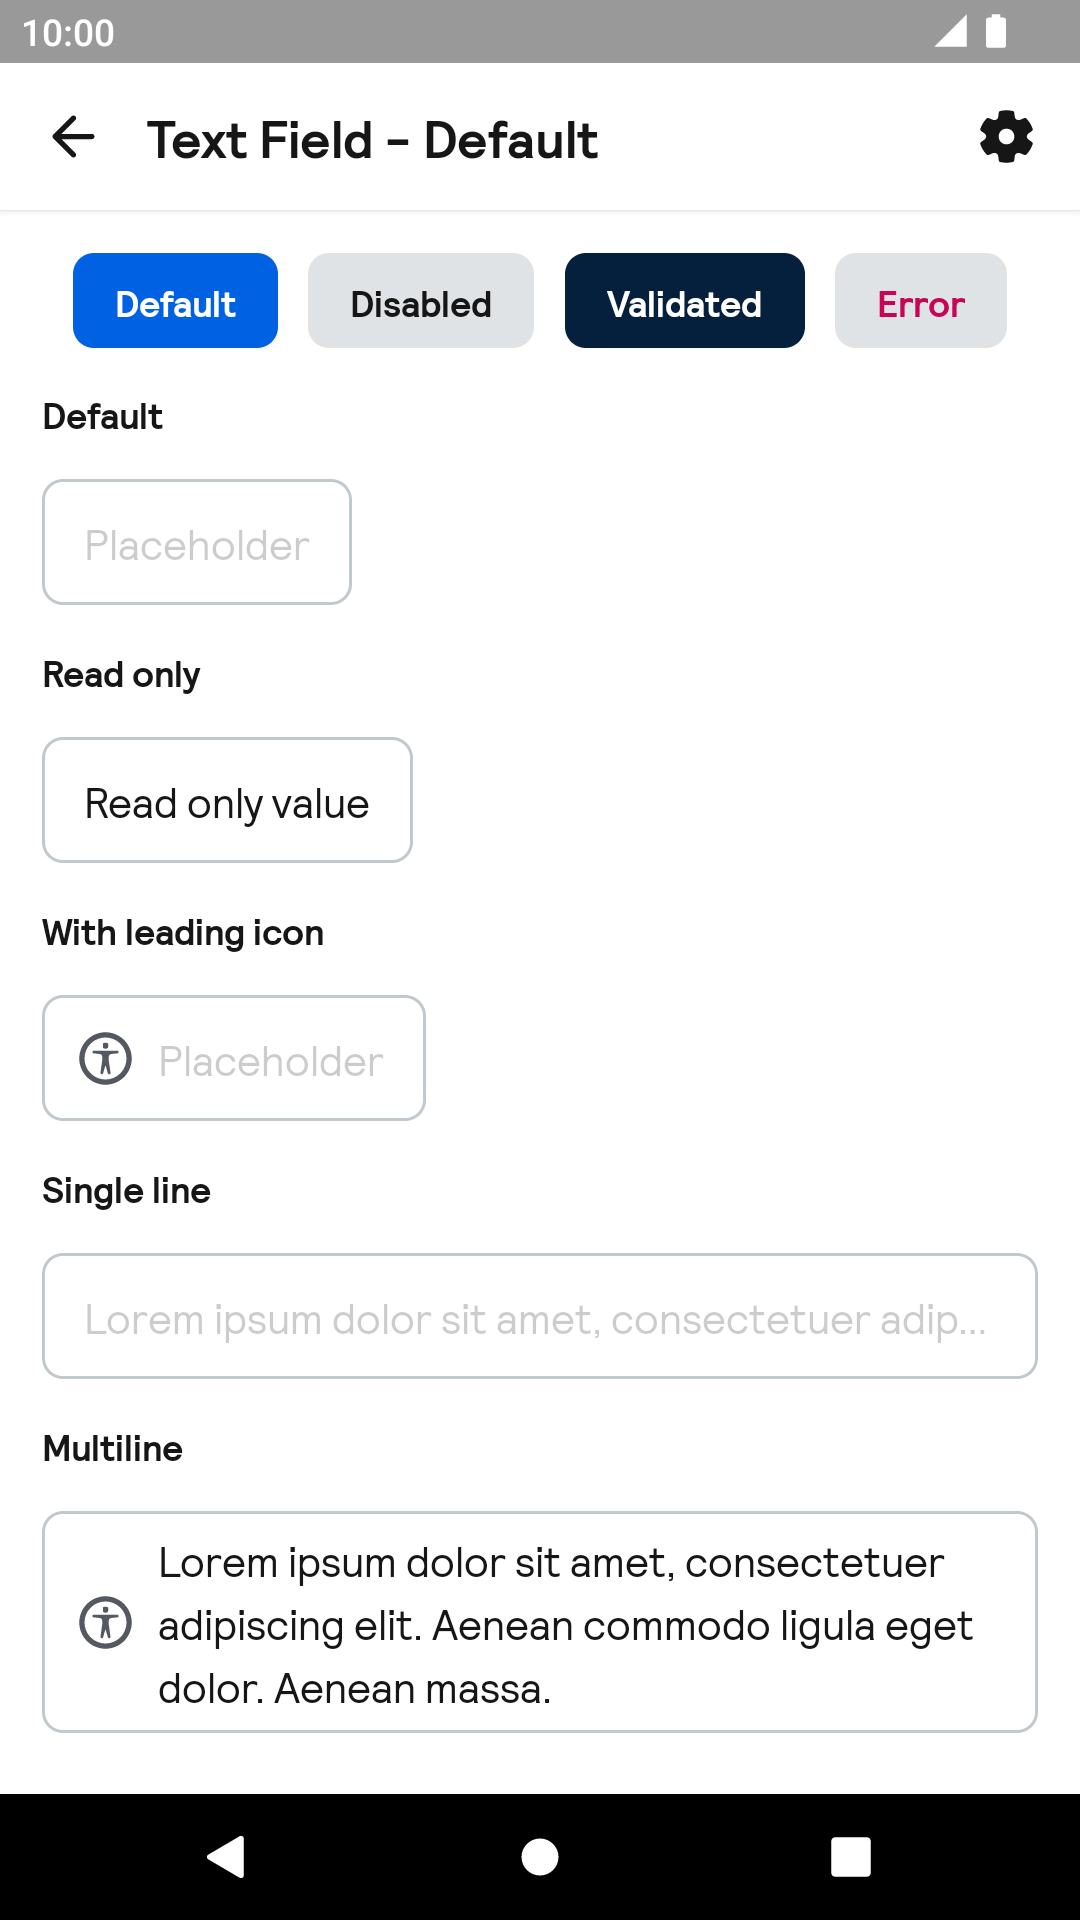
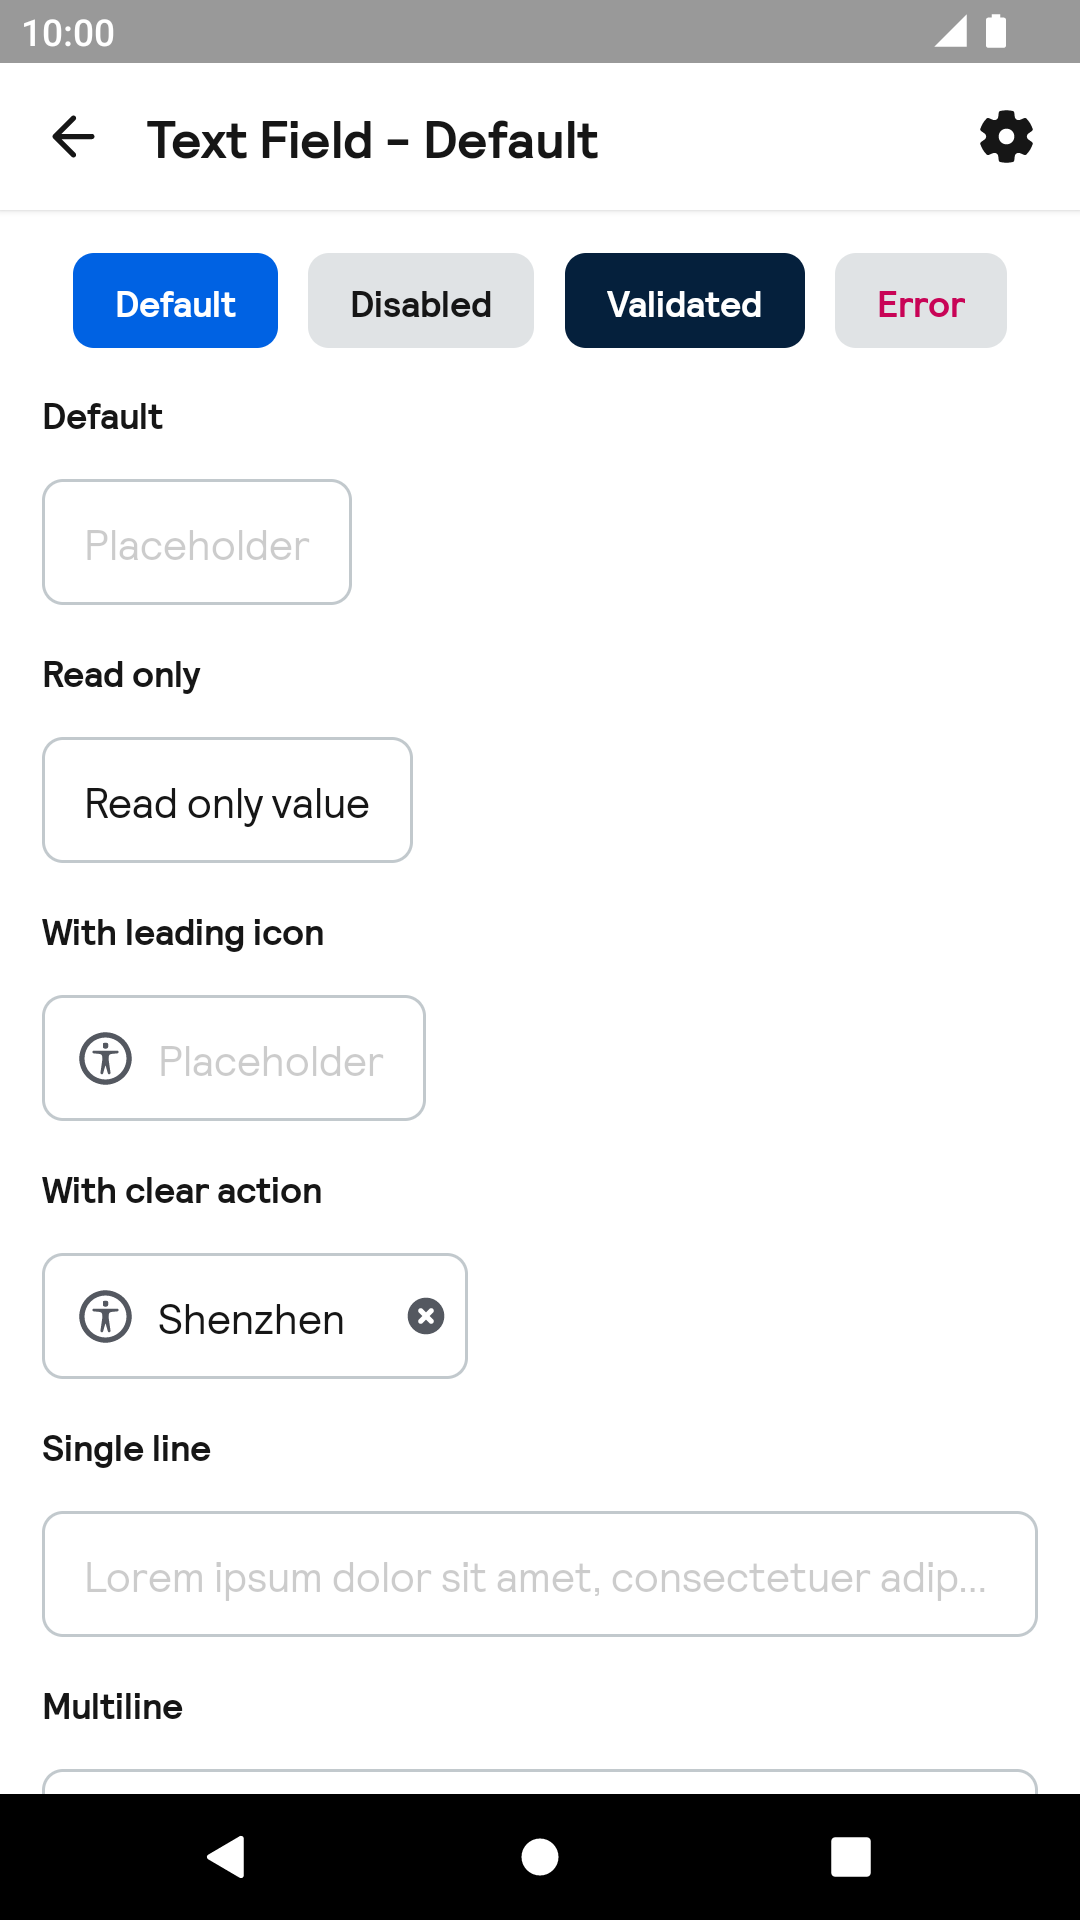
LMN-773: Add clear action for app search modal

diff --git a/backpack-compose/src/main/kotlin/net/skyscanner/backpack/compose/textfield/internal/BpkTextFieldImpl.kt b/backpack-compose/src/main/kotlin/net/skyscanner/backpack/compose/textfield/internal/BpkTextFieldImpl.kt
@@ -48,6 +48,7 @@ import androidx.compose.ui.Alignment
 import androidx.compose.ui.Modifier
 import androidx.compose.ui.graphics.Color
 import androidx.compose.ui.graphics.SolidColor
+import androidx.compose.ui.semantics.Role
 import androidx.compose.ui.text.input.TextFieldValue
 import androidx.compose.ui.text.input.VisualTransformation
 import androidx.compose.ui.text.style.TextOverflow
@@ -57,11 +58,14 @@ import net.skyscanner.backpack.compose.fieldset.LocalFieldStatus
 import net.skyscanner.backpack.compose.icon.BpkIcon
 import net.skyscanner.backpack.compose.icon.BpkIconSize
 import net.skyscanner.backpack.compose.text.BpkText
+import net.skyscanner.backpack.compose.textfield.BpkClearAction
 import net.skyscanner.backpack.compose.theme.BpkTheme
 import net.skyscanner.backpack.compose.tokens.BpkBorderRadius
 import net.skyscanner.backpack.compose.tokens.BpkSpacing
+import net.skyscanner.backpack.compose.tokens.CloseCircle
 import net.skyscanner.backpack.compose.tokens.ExclamationCircle
 import net.skyscanner.backpack.compose.tokens.TickCircle
+import net.skyscanner.backpack.compose.utils.clickable
 import net.skyscanner.backpack.compose.utils.hideContentIf
 
 @Composable
@@ -80,6 +84,7 @@ internal fun BpkTextFieldImpl(
     maxLines: Int = 1,
     interactionSource: MutableInteractionSource = remember { MutableInteractionSource() },
     trailingIcon: BpkIcon? = null,
+    clearAction: BpkClearAction? = null,
 ) {
 
     var textFieldValueState by remember { mutableStateOf(TextFieldValue(text = value)) }
@@ -105,6 +110,7 @@ internal fun BpkTextFieldImpl(
         maxLines = maxLines,
         interactionSource = interactionSource,
         trailingIcon = trailingIcon,
+        clearAction = clearAction,
     )
 }
 
@@ -124,6 +130,7 @@ internal fun BpkTextFieldImpl(
     maxLines: Int = 1,
     interactionSource: MutableInteractionSource = remember { MutableInteractionSource() },
     trailingIcon: BpkIcon? = null,
+    clearAction: BpkClearAction? = null,
 ) {
     BasicTextField(
         value = value,
@@ -158,6 +165,7 @@ internal fun BpkTextFieldImpl(
                 interactionSource = interactionSource,
                 trailingIcon = trailingIcon,
                 textFieldContent = it,
+                clearAction = clearAction,
             )
         },
     )
@@ -173,6 +181,7 @@ private fun TextFieldBox(
     maxLines: Int = 1,
     interactionSource: MutableInteractionSource = remember { MutableInteractionSource() },
     trailingIcon: BpkIcon? = null,
+    clearAction: BpkClearAction? = null,
     textFieldContent: @Composable () -> Unit,
 ) {
     val isFocused by interactionSource.collectIsFocusedAsState()
@@ -242,6 +251,14 @@ private fun TextFieldBox(
                         else -> BpkTheme.colors.textPrimary
                     },
                 ).value,
+            )
+        } else if (clearAction != null) {
+            BpkIcon(
+                icon = BpkIcon.CloseCircle,
+                contentDescription = clearAction.contentDescription,
+                size = BpkIconSize.Small,
+                tint = BpkTheme.colors.textSecondary,
+                modifier = Modifier.clickable(bounded = false, role = Role.Button) { clearAction.onClick() },
             )
         } else {
             when (status) {

diff --git a/app/src/main/java/net/skyscanner/backpack/demo/compose/AppSearchModalStory.kt b/app/src/main/java/net/skyscanner/backpack/demo/compose/AppSearchModalStory.kt
@@ -43,6 +43,7 @@ import net.skyscanner.backpack.compose.appsearchmodal.BpkSectionHeading
 import net.skyscanner.backpack.compose.appsearchmodal.BpkShortcut
 import net.skyscanner.backpack.compose.button.BpkButton
 import net.skyscanner.backpack.compose.icon.BpkIcon
+import net.skyscanner.backpack.compose.textfield.BpkClearAction
 import net.skyscanner.backpack.compose.tokens.Airports
 import net.skyscanner.backpack.compose.tokens.City
 import net.skyscanner.backpack.compose.tokens.Landmark
@@ -68,6 +69,13 @@ fun AppSearchModalStoryContentInputText(modifier: Modifier = Modifier) {
 
 @Composable
 @AppSearchModalComponent
+@ComposeStory("ClearAction")
+fun AppSearchModalStoryContentClearAction(modifier: Modifier = Modifier) {
+    AppSearchModalStory(result = contentResult(), inputText = stringResource(id = R.string.city_rio), withClearAction = true)
+}
+
+@Composable
+@AppSearchModalComponent
 @ComposeStory("Loading")
 fun AppSearchModalStoryLoading(modifier: Modifier = Modifier) {
     AppSearchModalStory(result = loadingResult(), inputText = stringResource(id = R.string.city_dubai))
@@ -85,9 +93,10 @@ private fun AppSearchModalStory(
     result: BpkAppSearchModalResult,
     modifier: Modifier = Modifier,
     inputText: String = "",
+    withClearAction: Boolean = false,
 ) {
     Column(modifier.fillMaxSize()) {
-        DefaultAppSearchModalSample(result = result, inputText)
+        DefaultAppSearchModalSample(result = result, inputText, withClearAction = withClearAction)
     }
 }
 
@@ -96,6 +105,7 @@ internal fun DefaultAppSearchModalSample(
     result: BpkAppSearchModalResult,
     inputText: String,
     modifier: Modifier = Modifier,
+    withClearAction: Boolean = false,
 ) {
     val destination = remember { mutableStateOf(inputText) }
     val showModal = rememberSaveable { mutableStateOf(true) }
@@ -115,6 +125,9 @@ internal fun DefaultAppSearchModalSample(
             closeAccessibilityLabel = stringResource(id = R.string.navigation_close),
             onClose = { showModal.value = false },
             onInputChanged = { destination.value = it },
+            clearAction = if (withClearAction) {
+                BpkClearAction(stringResource(id = R.string.text_field_clear_action_description)) { destination.value = "" }
+            } else null,
         )
     }
 }

diff --git a/app/src/main/java/net/skyscanner/backpack/demo/compose/TextFieldStory.kt b/app/src/main/java/net/skyscanner/backpack/demo/compose/TextFieldStory.kt
@@ -35,6 +35,7 @@ import net.skyscanner.backpack.compose.fieldset.BpkFieldStatus
 import net.skyscanner.backpack.compose.icon.BpkIcon
 import net.skyscanner.backpack.compose.text.BpkText
 import net.skyscanner.backpack.compose.textarea.BpkTextArea
+import net.skyscanner.backpack.compose.textfield.BpkClearAction
 import net.skyscanner.backpack.compose.textfield.BpkTextField
 import net.skyscanner.backpack.compose.theme.BpkTheme
 import net.skyscanner.backpack.compose.tokens.Accessibility
@@ -69,6 +70,11 @@ fun TextFieldStory(
 
             BpkText(stringResource(R.string.generic_with_leading_icon))
             TextFieldLeadingIconExample(status = status)
+
+            if (status == BpkFieldStatus.Default) {
+                BpkText(stringResource(R.string.with_clear_action_title))
+                TextFieldClearActionExample(status = status)
+            }
 
             BpkText(stringResource(R.string.generic_single_line))
             TextFieldSingleLineExample(status = status)
@@ -139,6 +145,24 @@ private fun TextFieldLeadingIconExample(
         placeholder = stringResource(R.string.generic_placeholder),
         icon = BpkIcon.Accessibility,
         status = status,
+    )
+}
+
+@Composable
+private fun TextFieldClearActionExample(
+    modifier: Modifier = Modifier,
+    status: BpkFieldStatus = BpkFieldStatus.Default,
+) {
+    val initialValue = stringResource(R.string.city_shenzhen)
+    var value by remember { mutableStateOf(initialValue) }
+    BpkTextField(
+        modifier = modifier,
+        value = value,
+        onValueChange = { value = it },
+        placeholder = stringResource(R.string.generic_placeholder),
+        icon = BpkIcon.Accessibility,
+        status = status,
+        clearAction = BpkClearAction(stringResource(R.string.text_field_clear_action_description)) { value = "" },
     )
 }
 

diff --git a/backpack-compose/src/main/kotlin/net/skyscanner/backpack/compose/textfield/BpkTextField.kt b/backpack-compose/src/main/kotlin/net/skyscanner/backpack/compose/textfield/BpkTextField.kt
@@ -31,6 +31,11 @@ import net.skyscanner.backpack.compose.fieldset.LocalFieldStatus
 import net.skyscanner.backpack.compose.icon.BpkIcon
 import net.skyscanner.backpack.compose.textfield.internal.BpkTextFieldImpl
 
+data class BpkClearAction(
+    val contentDescription: String,
+    val onClick: () -> Unit,
+)
+
 @Composable
 fun BpkTextField(
     value: String,
@@ -45,6 +50,7 @@ fun BpkTextField(
     keyboardActions: KeyboardActions = KeyboardActions(),
     maxLines: Int = 1,
     interactionSource: MutableInteractionSource = remember { MutableInteractionSource() },
+    clearAction: BpkClearAction? = null,
 ) {
     BpkTextFieldImpl(
         value = value,
@@ -59,6 +65,7 @@ fun BpkTextField(
         keyboardActions = keyboardActions,
         maxLines = maxLines,
         interactionSource = interactionSource,
+        clearAction = clearAction,
     )
 }
 
@@ -76,6 +83,7 @@ fun BpkTextField(
     keyboardActions: KeyboardActions = KeyboardActions(),
     maxLines: Int = 1,
     interactionSource: MutableInteractionSource = remember { MutableInteractionSource() },
+    clearAction: BpkClearAction? = null,
 ) {
     BpkTextFieldImpl(
         value = value,
@@ -90,5 +98,6 @@ fun BpkTextField(
         keyboardActions = keyboardActions,
         maxLines = maxLines,
         interactionSource = interactionSource,
+        clearAction = clearAction,
     )
 }

diff --git a/backpack-compose/src/main/kotlin/net/skyscanner/backpack/compose/appsearchmodal/internal/BpkAppSearchModalImpl.kt b/backpack-compose/src/main/kotlin/net/skyscanner/backpack/compose/appsearchmodal/internal/BpkAppSearchModalImpl.kt
@@ -25,6 +25,7 @@ import androidx.compose.runtime.Composable
 import androidx.compose.ui.Modifier
 import net.skyscanner.backpack.compose.appsearchmodal.BpkAppSearchModalResult
 import net.skyscanner.backpack.compose.icon.BpkIcon
+import net.skyscanner.backpack.compose.textfield.BpkClearAction
 import net.skyscanner.backpack.compose.textfield.BpkTextField
 import net.skyscanner.backpack.compose.tokens.BpkSpacing
 import net.skyscanner.backpack.compose.tokens.Search
@@ -36,6 +37,7 @@ internal fun BpkAppSearchModalImpl(
     results: BpkAppSearchModalResult,
     onInputChanged: (String) -> Unit,
     modifier: Modifier = Modifier,
+    clearAction: BpkClearAction? = null,
 ) {
     when (results) {
         is BpkAppSearchModalResult.Error -> {
@@ -52,6 +54,7 @@ internal fun BpkAppSearchModalImpl(
                     value = inputText,
                     placeholder = inputHint,
                     onValueChange = onInputChanged,
+                    clearAction = clearAction,
                 )
                 if (results is BpkAppSearchModalResult.Content) {
                     BpkSearchModalContent(results)

diff --git a/backpack-compose/src/main/kotlin/net/skyscanner/backpack/compose/appsearchmodal/BpkAppSearchModal.kt b/backpack-compose/src/main/kotlin/net/skyscanner/backpack/compose/appsearchmodal/BpkAppSearchModal.kt
@@ -29,6 +29,7 @@ import net.skyscanner.backpack.compose.modal.BpkModal
 import net.skyscanner.backpack.compose.modal.BpkModalState
 import net.skyscanner.backpack.compose.modal.rememberBpkModalState
 import net.skyscanner.backpack.compose.navigationbar.NavIcon
+import net.skyscanner.backpack.compose.textfield.BpkClearAction
 
 sealed class BpkAppSearchModalResult {
     data class Content(
@@ -75,6 +76,7 @@ fun BpkAppSearchModal(
     onClose: () -> Unit,
     modifier: Modifier = Modifier,
     state: BpkModalState = rememberBpkModalState(),
+    clearAction: BpkClearAction? = null,
 ) {
     val coroutineScope = rememberCoroutineScope()
     BpkModal(
@@ -95,6 +97,7 @@ fun BpkAppSearchModal(
             inputHint = inputHint,
             results = results,
             onInputChanged = onInputChanged,
+            clearAction = clearAction,
         )
     }
 }

diff --git a/app/src/androidTest/java/net/skyscanner/backpack/compose/appsearchmodal/BpkAppSearchModalTest.kt b/app/src/androidTest/java/net/skyscanner/backpack/compose/appsearchmodal/BpkAppSearchModalTest.kt
@@ -22,6 +22,7 @@ import androidx.compose.runtime.Composable
 import androidx.compose.ui.test.isDialog
 import net.skyscanner.backpack.compose.BpkSnapshotTest
 import net.skyscanner.backpack.demo.compose.AppSearchModalStoryContent
+import net.skyscanner.backpack.demo.compose.AppSearchModalStoryContentClearAction
 import net.skyscanner.backpack.demo.compose.AppSearchModalStoryContentInputText
 import net.skyscanner.backpack.demo.compose.AppSearchModalStoryError
 import net.skyscanner.backpack.demo.compose.AppSearchModalStoryLoading
@@ -37,6 +38,11 @@ class BpkAppSearchModalTest : BpkSnapshotTest() {
     @Test
     fun content_inputText() = record {
         AppSearchModalStoryContentInputText()
+    }
+
+    @Test
+    fun content_clearButton() = record {
+        AppSearchModalStoryContentClearAction()
     }
 
     @Test

diff --git a/app/src/androidTest/java/net/skyscanner/backpack/compose/textfield/BpkTextFieldTest.kt b/app/src/androidTest/java/net/skyscanner/backpack/compose/textfield/BpkTextFieldTest.kt
@@ -84,6 +84,21 @@ class BpkTextFieldTest : BpkSnapshotTest() {
     }
 
     @Test
+    @Variants(BpkTestVariant.Default, BpkTestVariant.Rtl)
+    fun withClearAction() {
+        snap {
+            BpkTextField(
+                value = "Value",
+                onValueChange = {},
+                placeholder = "Placeholder",
+                status = BpkFieldStatus.Default,
+                icon = BpkIcon.Accessibility,
+                clearAction = BpkClearAction("Clear") {},
+            )
+        }
+    }
+
+    @Test
     @Variants(BpkTestVariant.Default)
     fun singleLine() {
         snap(width = 200.dp) {

diff --git a/docs/compose/AppSearchModal/README.md b/docs/compose/AppSearchModal/README.md
@@ -10,6 +10,12 @@
 | --- | --- |
 | <img src="https://raw.githubusercontent.com/Skyscanner/backpack-android/main/docs/compose/AppSearchModal/screenshots/content.png" alt="AppSearchModal component in Content state" width="375" /> | <img src="https://raw.githubusercontent.com/Skyscanner/backpack-android/main/docs/compose/AppSearchModal/screenshots/content_dm.png" alt="AppSearchModal component in Content state - dark mode" width="375" /> |
 
+## ClearAction
+
+| Day                                                                                                                                                                                                                    | Night                                                                                                                                                                                                                                 |
+|------------------------------------------------------------------------------------------------------------------------------------------------------------------------------------------------------------------------|---------------------------------------------------------------------------------------------------------------------------------------------------------------------------------------------------------------------------------------|
+| <img src="https://raw.githubusercontent.com/Skyscanner/backpack-android/main/docs/compose/AppSearchModal/screenshots/clearaction.png" alt="AppSearchModal component with clear action in Content state" width="375" /> | <img src="https://raw.githubusercontent.com/Skyscanner/backpack-android/main/docs/compose/AppSearchModal/screenshots/clearaction_dm.png" alt="AppSearchModal component with clear action in Content state - dark mode" width="375" /> |
+
 
 ## Loading
 
@@ -46,6 +52,28 @@ BpkAppSearchModal(
     closeAccessibilityLabel = stringResource(id = R.string.navigation_close),
     onClose = {/* close modal*/ },
     onInputChanged = {/* update input*/ },
+)
+```
+
+Example of a AppSearchModal with clearAction:
+
+```Kotlin
+import net.skyscanner.backpack.compose.appsearchmodal.BpkAppSearchModal
+import net.skyscanner.backpack.compose.textfield.BpkClearAction
+
+val destination = remember { mutableStateOf(inputText) }
+BpkAppSearchModal(
+    title = stringResource(id = R.string.destination),
+    inputText = "",
+    inputHint = stringResource(id = R.string.text_field_hint),
+    results = BpkAppSearchModalResult.Content(
+        sections = listOf(BpkSection(...)),
+        shortcuts = listOf(BpkShortcut(...)),
+    ),
+    closeAccessibilityLabel = stringResource(id = R.string.navigation_close),
+    onClose = {/* close modal*/ },
+    onInputChanged = {/* update input*/ },
+    clearAction = BpkClearAction("Clear"){ destination.value = "" }
 )
 ```
 

diff --git a/docs/compose/TextField/README.md b/docs/compose/TextField/README.md
@@ -87,6 +87,23 @@ BpkTextField(
 )
 ```
 
+Example of a TextField with clear action:
+
+```Kotlin
+import net.skyscanner.backpack.compose.icon.BpkIcon
+import net.skyscanner.backpack.compose.textfield.BpkTextField
+import net.skyscanner.backpack.compose.textfield.BpkClearAction
+import net.skyscanner.backpack.compose.tokens.Accessibility
+
+BpkTextField(
+  value = value,
+  onValueChange = { value -> },
+  placeholder = "Placeholder",
+  icon = BpkIcon.Accessibility,
+  clearAction = BpkClearAction("Clear"){ value = "" }
+)
+```
+
 Example of a multiline TextField:
 
 ```Kotlin
